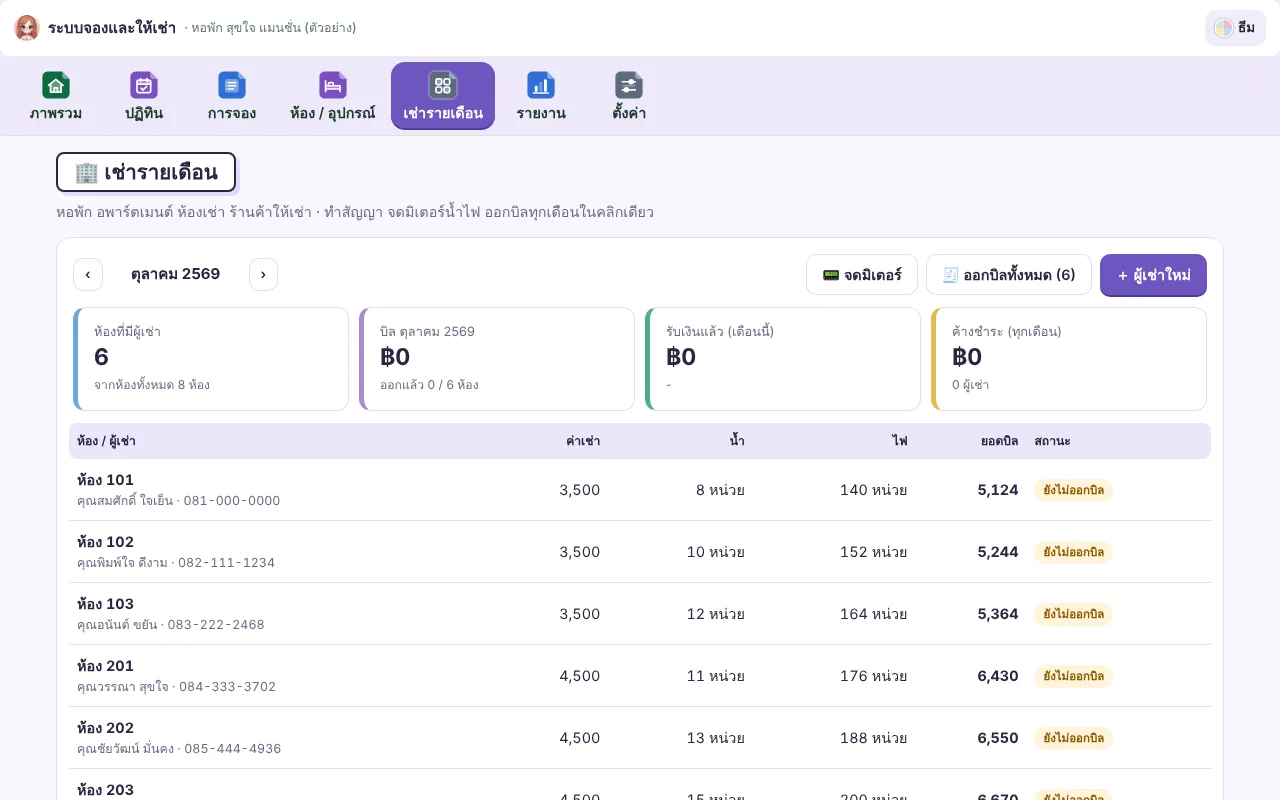
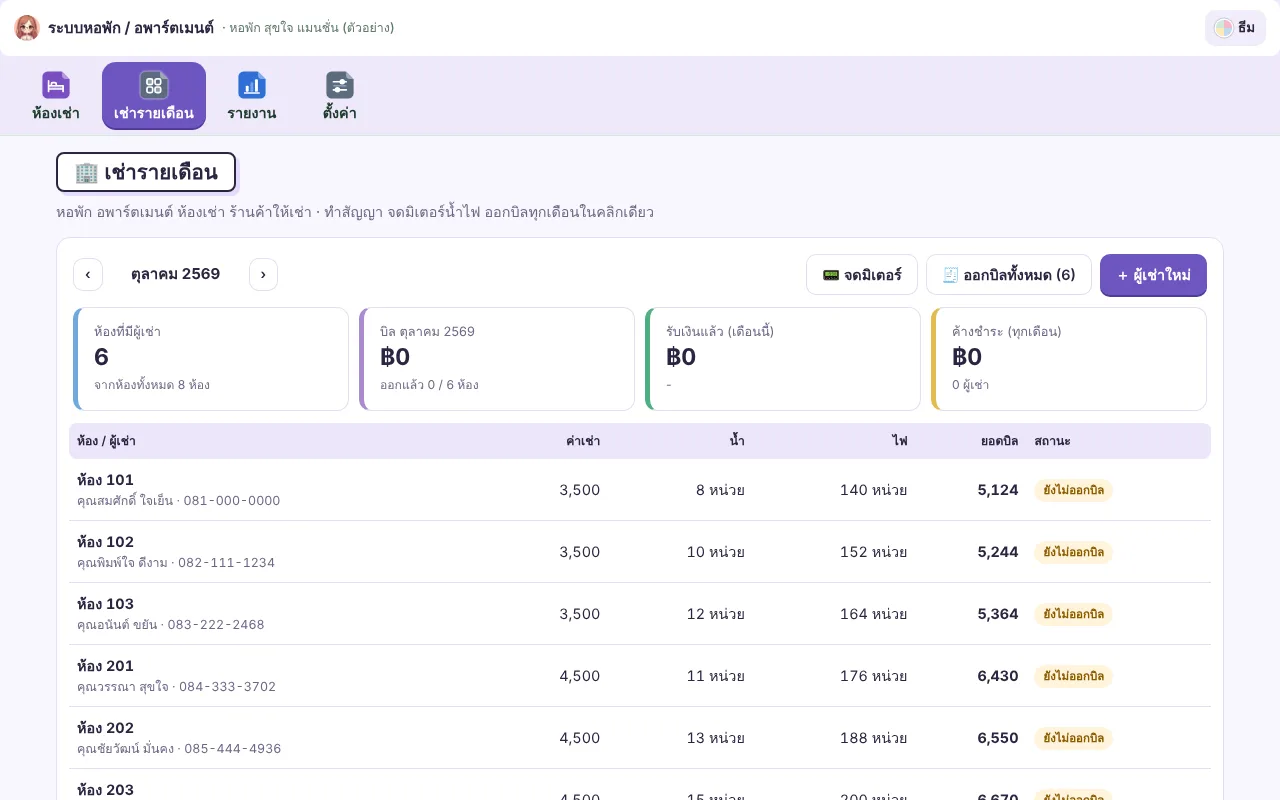
ระบบจอง: คำตามประเภทธุรกิจทุกหน้า (bookwords.js) + ซ่อนช่องที่ไม่เกี่ยว + ข้อความใบยืนยันตามธุรกิจ
Claude-Session: https://claude.ai/code/session_01EbbxVPtwtVY3ByRXsAceaL

Changed region(s): [[0.0312, 0.0312, 0.4375, 0.1875], [0.4688, 0.0938, 0.5, 0.1562]]

diff --git a/assets/bookwords.js b/assets/bookwords.js
@@ -1,0 +1,240 @@
+/* คำในระบบจองตามประเภทธุรกิจ (cfg.biz) — เปลี่ยนคำกลาง ๆ ของระบบจองให้เป็นคำที่คนในธุรกิจนั้นใช้จริง
+   และซ่อนช่องที่ไม่เกี่ยวกับธุรกิจนั้น (เช่น เวลาเช็คอินในร้านเสริมสวย)
+   ใช้ใน booking/index.html เท่านั้น · ข้อมูลไม่เปลี่ยน เปลี่ยนแค่คำที่แสดง */
+(function () {
+  "use strict";
+  var biz = "";
+  try { biz = (JSON.parse(localStorage.getItem("edm_book_cfg") || "{}").biz) || ""; } catch (e) {}
+  if (!biz) return;
+
+  // ---------- คำร่วมแยกตามกลุ่ม ----------
+  var STAY = [   // โรงแรม · รีสอร์ท · หอพัก (มีเช็คอิน-เช็คเอาท์)
+    ["ต้องเช็คอิน / ส่งมอบวันนี้", "ต้องเช็คอินวันนี้"],
+    ["ต้องเช็คเอาท์ / รับคืนวันนี้", "ต้องเช็คเอาท์วันนี้"],
+    ["เข้า / ส่งมอบวันนี้", "เช็คอินวันนี้"],
+    ["ออก / รับคืนวันนี้", "เช็คเอาท์วันนี้"],
+    ["เข้าพัก / ใช้งานอยู่", "เข้าพักอยู่"],
+    ["ใช้งานอยู่ ", "เข้าพักอยู่ "],
+    ["จำนวนผู้เข้าพัก / ผู้ใช้", "จำนวนผู้เข้าพัก"],
+    ["ค่าเช่าแบ่งตามจำนวนคืน/วันที่อยู่ในเดือน (รวมเฉพาะที่ยืนยันแล้ว เข้าพัก และออกแล้ว)", "ค่าห้องคิดตามจำนวนคืนที่อยู่ในเดือนนี้ (นับเฉพาะที่ยืนยันแล้ว เข้าพักอยู่ และเช็คเอาท์แล้ว)"],
+    ["ค่าปรับเกินเวลา (% ของค่าเช่าช่วงที่เกิน)", "ค่าปรับเช็คเอาท์ช้า (% ของค่าห้องช่วงที่เกิน)"],
+    ["ชื่อร้าน / ที่พัก", "ชื่อที่พัก"]
+  ];
+  var SERVICE = [ // ร้านเสริมสวย · จองช่าง (นัดเป็นเวลา ไม่มีเข้าพัก)
+    ["ค่าเช่าแบ่งตามจำนวนคืน/วันที่อยู่ในเดือน (รวมเฉพาะที่ยืนยันแล้ว เข้าพัก และออกแล้ว)", "ยอดค่าบริการของงานในเดือนนี้ (นับเฉพาะที่ยืนยันแล้ว กำลังทำ และเสร็จแล้ว)"],
+    ["ค่าปรับเกินเวลา (% ของค่าเช่าช่วงที่เกิน)", "ค่าบริการเพิ่มเมื่อเกินเวลา (% ของค่าบริการช่วงที่เกิน)"],
+    ["กดช่องว่างเพื่อจอง · กดแถบสีเพื่อเปิดใบจอง · ช่องตัวเลข = จำนวนที่ยังว่างในวันนั้น", "กดช่องว่างเพื่อลงคิว · กดช่องที่มีคิวเพื่อดูรายการของวันนั้น"],
+    ["ตั้งราคา จำนวน และค่าประกันของแต่ละรายการ · ห้องที่เหมือนกันหลายห้องจะแยกทีละห้อง หรือรวมเป็นประเภทห้องพร้อมจำนวนก็ได้", "ใส่รายชื่อช่างหรือทีม พร้อมราคาค่าบริการต่อชั่วโมง · ระบบใช้กันคิวชนของแต่ละคน"],
+    ["ค้นหาด้วยเลขที่ ชื่อลูกค้า เบอร์โทร หรือชื่อห้อง/อุปกรณ์", "ค้นหาด้วยเลขที่ ชื่อลูกค้า เบอร์โทร หรือชื่อช่าง"],
+    ["ลูกค้าเห็นเฉพาะชื่อร้าน รายการ ราคา และช่วงที่ไม่ว่าง ไม่เห็นชื่อหรือเบอร์ของผู้จองคนอื่น · คำขอจองยังไม่ตัดห้องจนกว่าคุณกดรับจอง แต่จะกันช่วงนั้นไม่ให้ลูกค้าคนอื่นขอซ้ำ", "ลูกค้าเห็นเฉพาะชื่อร้าน รายการ ราคา และเวลาที่ไม่ว่าง ไม่เห็นชื่อหรือเบอร์ของลูกค้าคนอื่น · คำขอยังไม่ลงคิวจริงจนกว่าคุณกดรับ แต่จะกันเวลานั้นไม่ให้คนอื่นขอซ้ำ"],
+    ["รายการให้เช่า", "รายการ"],
+    ["ชื่อร้าน / ที่พัก", "ชื่อร้าน"],
+    ["ค่าเช่า", "ค่าบริการ"],
+    ["ค่าประกันถืออยู่", "มัดจำที่ถืออยู่"],
+    ["ค่าประกันที่ถืออยู่", "มัดจำที่ถืออยู่"],
+    ["เวลาเตรียมห้องระหว่างรอบ (นาที) · ใช้กับแบบรายชั่วโมง", "เวลาพักระหว่างคิว (นาที)"],
+    ["ดาวน์โหลดไฟล์สำรองระบบจอง", "ดาวน์โหลดไฟล์สำรองข้อมูล"],
+    ["ล้างข้อมูลระบบจอง", "ล้างข้อมูลทั้งหมด"],
+    ["ข้อมูลระบบจอง", "ข้อมูลในระบบ"],
+    ["ราคาในระบบจองรวม VAT แล้ว", "ราคาในระบบรวม VAT แล้ว"],
+    ["ใช้บนใบยืนยัน ใบเสร็จ และหน้าจองออนไลน์", "ใช้บนใบยืนยัน ใบเสร็จ และหน้านัดออนไลน์"]
+  ];
+
+  // ---------- คำเฉพาะแต่ละธุรกิจ ----------
+  var V = {
+    hotel: STAY.concat([
+      ["ระบบจองและให้เช่า", "ระบบจองห้องพัก"],
+      ["ห้อง / อุปกรณ์ให้เช่า", "ห้องพัก"],
+      ["ปฏิทินห้อง / อุปกรณ์", "ปฏิทินห้องพัก"],
+      ["แยกตามห้อง / อุปกรณ์", "แยกตามห้อง"],
+      ["เพิ่มห้อง / อุปกรณ์", "เพิ่มห้อง"],
+      ["เลือกห้อง / อุปกรณ์", "เลือกห้อง"],
+      ["ยังไม่มีห้อง / อุปกรณ์", "ยังไม่มีห้องพัก"],
+      ["ห้อง / อุปกรณ์", "ห้องพัก"],
+      ["ห้อง/อุปกรณ์", "ห้อง"],
+      ["ชื่อห้อง / สถานที่", "ชื่อห้อง"],
+      ["ค่าเช่า", "ค่าห้อง"],
+      ["รายการให้เช่า", "ห้อง"]
+    ]),
+    resort: STAY.concat([
+      ["ระบบจองและให้เช่า", "ระบบจองรีสอร์ท / บ้านพัก"],
+      ["ห้อง / อุปกรณ์ให้เช่า", "บ้านพัก / ของให้เช่า"],
+      ["ปฏิทินห้อง / อุปกรณ์", "ปฏิทินบ้านพัก"],
+      ["แยกตามห้อง / อุปกรณ์", "แยกตามบ้านพัก / ของให้เช่า"],
+      ["เพิ่มห้อง / อุปกรณ์", "เพิ่มบ้านพัก / ของให้เช่า"],
+      ["เลือกห้อง / อุปกรณ์", "เลือกบ้านพัก / ของให้เช่า"],
+      ["ยังไม่มีห้อง / อุปกรณ์", "ยังไม่มีบ้านพัก"],
+      ["ห้อง / อุปกรณ์", "บ้านพัก / ของให้เช่า"],
+      ["ห้อง/อุปกรณ์", "บ้านพัก"],
+      ["ชื่อห้อง / สถานที่", "ชื่อบ้านพัก / รายการ"],
+      ["ค่าเช่า", "ค่าที่พัก"]
+    ]),
+    dorm: STAY.concat([
+      ["ระบบจองและให้เช่า", "ระบบหอพัก / อพาร์ตเมนต์"],
+      ["ห้อง / อุปกรณ์ให้เช่า", "ห้องเช่า"],
+      ["ปฏิทินห้อง / อุปกรณ์", "ปฏิทินห้องเช่า"],
+      ["แยกตามห้อง / อุปกรณ์", "แยกตามห้อง"],
+      ["เพิ่มห้อง / อุปกรณ์", "เพิ่มห้อง"],
+      ["เลือกห้อง / อุปกรณ์", "เลือกห้อง"],
+      ["ยังไม่มีห้อง / อุปกรณ์", "ยังไม่มีห้องเช่า"],
+      ["ห้อง / อุปกรณ์", "ห้องเช่า"],
+      ["ห้อง/อุปกรณ์", "ห้อง"],
+      ["ชื่อห้อง / สถานที่", "ชื่อห้อง"],
+      ["ชื่อที่พัก", "ชื่อหอพัก"]
+    ]),
+    meet: [
+      ["ระบบจองและให้เช่า", "ระบบจองห้องประชุม / เช่าอุปกรณ์"],
+      ["ต้องเช็คอิน / ส่งมอบวันนี้", "เริ่มใช้งาน / รับของวันนี้"],
+      ["ต้องเช็คเอาท์ / รับคืนวันนี้", "ใช้เสร็จ / คืนของวันนี้"],
+      ["เข้า / ส่งมอบวันนี้", "เริ่มใช้งาน / รับของวันนี้"],
+      ["ออก / รับคืนวันนี้", "ใช้เสร็จ / คืนของวันนี้"],
+      ["เข้าพัก / ใช้งานอยู่", "กำลังใช้งาน"],
+      ["จำนวนผู้เข้าพัก / ผู้ใช้", "จำนวนผู้เข้าร่วม"],
+      ["ค่าเช่าแบ่งตามจำนวนคืน/วันที่อยู่ในเดือน (รวมเฉพาะที่ยืนยันแล้ว เข้าพัก และออกแล้ว)", "ค่าเช่าของการจองในเดือนนี้ (นับเฉพาะที่ยืนยันแล้ว กำลังใช้งาน และใช้เสร็จแล้ว)"],
+      ["ตั้งราคา จำนวน และค่าประกันของแต่ละรายการ · ห้องที่เหมือนกันหลายห้องจะแยกทีละห้อง หรือรวมเป็นประเภทห้องพร้อมจำนวนก็ได้", "ตั้งราคา จำนวน และค่าประกันของห้องและอุปกรณ์ · อุปกรณ์ที่มีหลายชิ้นใส่เป็นจำนวนได้ ระบบนับของคงเหลือให้"],
+      ["ชื่อร้าน / ที่พัก", "ชื่อร้าน / สถานที่"],
+      ["เวลาเตรียมห้องระหว่างรอบ (นาที) · ใช้กับแบบรายชั่วโมง", "เวลาเตรียมห้องระหว่างรอบ (นาที)"]
+    ],
+    salon: SERVICE.concat([
+      ["ระบบจองและให้เช่า", "ระบบนัดคิว ร้านเสริมสวย / สปา"],
+      ["ต้องเช็คอิน / ส่งมอบวันนี้", "คิวที่ยังไม่เริ่มวันนี้"],
+      ["ต้องเช็คเอาท์ / รับคืนวันนี้", "กำลังให้บริการ"],
+      ["เข้า / ส่งมอบวันนี้", "คิววันนี้"],
+      ["ออก / รับคืนวันนี้", "กำลังให้บริการ"],
+      ["เข้าพัก / ใช้งานอยู่", "กำลังให้บริการ"],
+      ["ใช้งานอยู่ ", "กำลังให้บริการ "],
+      ["จองไว้ (รอมัดจำ)", "นัดไว้ (รอมัดจำ)"],
+      ["ห้อง / อุปกรณ์ให้เช่า", "ช่าง / เตียง"],
+      ["ปฏิทินห้อง / อุปกรณ์", "ตารางคิว"],
+      ["แยกตามห้อง / อุปกรณ์", "แยกตามช่าง / เตียง"],
+      ["เพิ่มห้อง / อุปกรณ์", "เพิ่มช่าง / เตียง"],
+      ["เลือกห้อง / อุปกรณ์", "เลือกช่าง / เตียง"],
+      ["ยังไม่มีห้อง / อุปกรณ์", "ยังไม่มีช่างหรือเตียง"],
+      ["ห้อง / อุปกรณ์", "ช่าง / เตียง"],
+      ["ชื่อห้อง / สถานที่", "ชื่อช่าง / เตียง"],
+      ["จำนวน (ห้องเหมือนกัน)", "รับลูกค้าพร้อมกันได้ (คน)"],
+      ["ภาพรวมการจอง", "ภาพรวมคิว"],
+      ["รายงานการจอง", "รายงานบริการ"],
+      ["ตั้งค่าการจอง", "ตั้งค่าร้าน"],
+      ["ยืนยันการจอง", "ยืนยันนัด"],
+      ["ช่องทางการจอง", "ลูกค้านัดผ่าน"],
+      ["รับจองออนไลน์", "รับนัดคิวออนไลน์"],
+      ["จองล่วงหน้า", "นัดล่วงหน้า"],
+      ["เปิดให้จองรายชั่วโมงตั้งแต่", "เปิดให้นัดตั้งแต่"],
+      ["รายการที่เปิดให้ลูกค้าจอง", "ช่าง / เตียงที่เปิดให้ลูกค้านัด"],
+      ["ลูกค้าเลือกและส่งคำขอจองเองผ่านลิงก์ของร้าน", "ลูกค้าเลือกเวลาและส่งคำขอนัดเองผ่านลิงก์ของร้าน"],
+      ["ใบจองใหม่ (เริ่มในเดือน)", "นัดใหม่ (ในเดือนนี้)"],
+      ["ไม่พบใบจอง", "ไม่พบใบนัด"],
+      ["ลบใบจอง", "ลบใบนัด"],
+      ["รายการจอง", "รายการนัด"],
+      ["ใบจอง", "ใบนัด"],
+      ["จองใหม่", "นัดคิวใหม่"],
+      ["การจอง", "นัดหมาย"],
+      ["ขายได้", "ชั่วโมงบริการ"],
+      [" งาน · เฉลี่ย ", " คิว · เฉลี่ย "],
+      ["ชม./งาน", "ชม./คิว"],
+      ["เพิ่มนัดหมาย / คิวบริการ", "เพิ่มช่าง / เตียง"],
+      ["ที่อยู่ / จุดนัดรับ (สั้นๆ)", "ที่อยู่ร้าน (สั้นๆ)"],
+      [" รอบ", " คิว"]
+    ]),
+    tech: SERVICE.concat([
+      ["ระบบจองและให้เช่า", "ระบบจองช่าง / บริการถึงบ้าน"],
+      ["ต้องเช็คอิน / ส่งมอบวันนี้", "งานที่ต้องไปวันนี้"],
+      ["ต้องเช็คเอาท์ / รับคืนวันนี้", "กำลังทำ / รอปิดงาน"],
+      ["เข้า / ส่งมอบวันนี้", "งานวันนี้"],
+      ["ออก / รับคืนวันนี้", "กำลังทำ / รอปิดงาน"],
+      ["เข้าพัก / ใช้งานอยู่", "กำลังทำงาน"],
+      ["ใช้งานอยู่ ", "กำลังทำงาน "],
+      ["จองไว้ (รอมัดจำ)", "รับงานไว้ (รอมัดจำ)"],
+      ["ห้อง / อุปกรณ์ให้เช่า", "ช่าง / ทีม"],
+      ["ปฏิทินห้อง / อุปกรณ์", "ตารางงานช่าง"],
+      ["แยกตามห้อง / อุปกรณ์", "แยกตามช่าง / ทีม"],
+      ["เพิ่มห้อง / อุปกรณ์", "เพิ่มช่าง / ทีม"],
+      ["เลือกห้อง / อุปกรณ์", "เลือกช่าง / ทีม"],
+      ["ยังไม่มีห้อง / อุปกรณ์", "ยังไม่มีช่างหรือทีม"],
+      ["ห้อง / อุปกรณ์", "ช่าง / ทีม"],
+      ["ชื่อห้อง / สถานที่", "ชื่อช่าง / ทีม"],
+      ["จำนวน (ห้องเหมือนกัน)", "รับงานพร้อมกันได้ (งาน)"],
+      ["ภาพรวมการจอง", "ภาพรวมงาน"],
+      ["รายงานการจอง", "รายงานงานบริการ"],
+      ["ตั้งค่าการจอง", "ตั้งค่าร้าน"],
+      ["ยืนยันการจอง", "ยืนยันรับงาน"],
+      ["ช่องทางการจอง", "ลูกค้าติดต่อผ่าน"],
+      ["รับจองออนไลน์", "รับงานออนไลน์"],
+      ["จองล่วงหน้า", "นัดล่วงหน้า"],
+      ["เปิดให้จองรายชั่วโมงตั้งแต่", "เปิดรับนัดตั้งแต่"],
+      ["รายการที่เปิดให้ลูกค้าจอง", "ช่าง / ทีมที่เปิดให้ลูกค้านัด"],
+      ["ลูกค้าเลือกและส่งคำขอจองเองผ่านลิงก์ของร้าน", "ลูกค้าเลือกเวลาและส่งคำขอนัดช่างเองผ่านลิงก์ของร้าน"],
+      ["ที่อยู่ / จุดนัดรับ (สั้นๆ)", "พื้นที่ให้บริการ (สั้นๆ)"],
+      ["ใบจองใหม่ (เริ่มในเดือน)", "งานใหม่ (ในเดือนนี้)"],
+      ["ไม่พบใบจอง", "ไม่พบใบงาน"],
+      ["ลบใบจอง", "ลบใบงาน"],
+      ["＋ ที่อยู่ / เลขภาษี (ออกใบกำกับ)", "＋ ที่อยู่หน้างาน / เลขภาษี"],
+      ["รายการจอง", "งานที่นัด"],
+      ["ใบนัด", "ใบงาน"],
+      ["ใบจอง", "ใบงาน"],
+      ["จองใหม่", "รับงานใหม่"],
+      ["การจอง", "งาน"],
+      ["ขายได้", "ชั่วโมงงาน"],
+      ["เพิ่มงานช่าง / นัดหน้างาน", "เพิ่มช่าง / ทีม"],
+      ["หน้าร้าน", "ลูกค้าเดินมาที่ร้าน"],
+      [" รอบ", " งาน"]
+    ])
+  };
+  // ตัวอย่างในช่องกรอก (placeholder) ตามธุรกิจ
+  var P = {
+    hotel: { "เช่น ขอห้องชั้นล่าง, มารับของเวลา 10 โมง": "เช่น ขอห้องชั้นล่าง, เข้าพักดึก 4 ทุ่ม" },
+    resort: { "เช่น ขอห้องชั้นล่าง, มารับของเวลา 10 โมง": "เช่น ขอบ้านหลังริมน้ำ, จัดบาร์บีคิวเย็นวันเสาร์" },
+    dorm: { "เช่น ขอห้องชั้นล่าง, มารับของเวลา 10 โมง": "เช่น ย้ายเข้าวันเสาร์" },
+    meet: { "เช่น 2 ผู้ใหญ่ 1 เด็ก": "เช่น 20 คน", "เช่น ขอห้องชั้นล่าง, มารับของเวลา 10 โมง": "เช่น จัดโต๊ะแบบห้องเรียน, ขอไมค์ 2 ตัว" },
+    salon: { "เช่น ขอห้องชั้นล่าง, มารับของเวลา 10 โมง": "เช่น ทำสีผม ขอช่างนุ่น", "เช่น ห้องประชุม A": "เช่น ช่างนุ่น · ทำผม", "เช่น ห้องประชุม, สนาม": "เช่น ทำผม, ทำเล็บ, นวด", "เช่น จุ 20 คน มีโปรเจกเตอร์": "เช่น ตัด สระ ไดร์ ทำสี", "เช่น บ้านพักริมน้ำ 3 หลัง ใกล้ตัวเมือง 10 นาที": "เช่น ร้านทำผม เปิด 10:00–20:00 หยุดวันพุธ", "ห้อง": "คน" },
+    tech: { "เช่น ขอห้องชั้นล่าง, มารับของเวลา 10 โมง": "เช่น แอร์ไม่เย็น 2 เครื่อง ชั้น 3 มีที่จอดรถ", "เช่น ห้องประชุม A": "เช่น ช่างเอก · แอร์", "เช่น ห้องประชุม, สนาม": "เช่น แอร์, ไฟฟ้า, ประปา", "เช่น จุ 20 คน มีโปรเจกเตอร์": "เช่น ล้างแอร์ ซ่อมแอร์ รับงานเขตบางนา", "เช่น บ้านพักริมน้ำ 3 หลัง ใกล้ตัวเมือง 10 นาที": "เช่น รับงานช่างแอร์ ไฟฟ้า ประปา ในเขตกรุงเทพฯ ตะวันออก", "ห้อง": "ทีม" }
+  };
+  // ช่องที่ไม่เกี่ยวกับธุรกิจนั้น: [ข้อความของป้าย/ตัวเลือก, กล่องที่จะซ่อน]
+  var NOTE = ["^ซ่อนประเภท", ".note"];
+  var NOSTAY = [NOTE, ["เวลาเช็คอิน", ".f"], ["เวลาเช็คเอาท์", ".f"], ['คืนที่ใช้ "ราคาคืนวันหยุด" ของห้องพัก', ".f"], ["Agoda / Booking", "option"], ["🏢 เช่ารายเดือน", "button"], ["เช่ารายเดือน", "button"]];
+  var H = {
+    meet: NOSTAY,
+    salon: NOSTAY.concat([["จำนวนผู้เข้าพัก / ผู้ใช้", ".f"], ["รับค่าประกัน", "option"], ["คืนค่าประกัน", "option"], ["หักค่าประกันเป็นค่าเสียหาย", "option"], ["ค่าประกัน", ".f"], ["ค่าประกัน / ช่าง/เตียง", ".f"], ["ประเภทที่ใช้", ".card"], ["^ซ่อนประเภท", ".note"]]),
+    tech: NOSTAY.concat([["จำนวนผู้เข้าพัก / ผู้ใช้", ".f"], ["รับค่าประกัน", "option"], ["คืนค่าประกัน", "option"], ["หักค่าประกันเป็นค่าเสียหาย", "option"], ["ค่าประกัน", ".f"], ["ค่าประกัน / ช่าง/ทีม", ".f"], ["ประเภทที่ใช้", ".card"], ["^ซ่อนประเภท", ".note"]]),
+    dorm: [["Agoda / Booking", "option"], NOTE],
+    hotel: [NOTE], resort: [NOTE]
+  };
+  // แทนเฉพาะเมื่อข้อความทั้งก้อนตรงกัน (คำสั้นที่ซ้ำในคำอื่น เช่น "ออกแล้ว" ใน "ย้ายออกแล้ว")
+  var X = {
+    meet: { "ออกแล้ว": "ใช้เสร็จแล้ว", "เปิดให้จอง": "เปิดให้จอง" },
+    salon: { "ออกแล้ว": "บริการเสร็จ", "เปิดให้จอง": "เปิดรับนัด", "เปิดจอง": "เปิดรับนัด", "ปิดจอง": "ปิดรับนัด", "ชั่วโมงงานทั้งเดือน": "ชั่วโมงบริการทั้งเดือน" },
+    tech: { "ออกแล้ว": "งานเสร็จ", "เปิดให้จอง": "เปิดรับงาน", "เปิดจอง": "เปิดรับงาน", "ปิดจอง": "ปิดรับงาน", "📋 การจอง": "📋 งานทั้งหมด", "การจอง": "งานทั้งหมด" },
+    hotel: { "ออกแล้ว": "เช็คเอาท์แล้ว" }, resort: { "ออกแล้ว": "เช็คเอาท์แล้ว" }
+  }[biz] || {};
+  var M = (V[biz] || []).slice().sort(function (a, b) { return b[0].length - a[0].length; }), PH = P[biz] || {}, HD = H[biz] || [];
+  var RE_CI = /\s*·\s*เวลาเช็คอิน.*?เช็คเอาท์\s*[\d:]+\s*น\./;
+  function swap(t) {
+    var o = t, tr = t.trim();
+    if (X[tr]) return X[tr] === tr ? null : t.replace(tr, X[tr]);
+    for (var i = 0; i < M.length; i++) if (t.indexOf(M[i][0]) >= 0) t = t.split(M[i][0]).join(M[i][1]);
+    if (!/^(hotel|resort|dorm)$/.test(biz)) t = t.replace(RE_CI, "");
+    return t === o ? null : t;
+  }
+  function fix(root) {
+    var w = document.createTreeWalker(root, NodeFilter.SHOW_TEXT), n, t;
+    while ((n = w.nextNode())) {
+      var p = n.parentNode && n.parentNode.nodeName;
+      if (p === "SCRIPT" || p === "STYLE" || p === "TEXTAREA" || !/[ก-๙]/.test(n.nodeValue)) continue;
+      if ((t = swap(n.nodeValue)) !== null) n.nodeValue = t;
+    }
+    var ins = root.querySelectorAll ? root.querySelectorAll("[placeholder]") : [];
+    for (var i = 0; i < ins.length; i++) { var ph = ins[i].getAttribute("placeholder"); if (PH[ph]) ins[i].setAttribute("placeholder", PH[ph]); }
+    if (HD.length) {
+      var els = root.querySelectorAll ? root.querySelectorAll("label,span,option,button,h2,h3,div.note") : [];
+      for (var j = 0; j < els.length; j++) {
+        var tx = els[j].textContent.trim();
+        for (var k = 0; k < HD.length; k++) if (HD[k][0][0] === "^" ? tx.indexOf(HD[k][0].slice(1)) === 0 : tx === HD[k][0]) { var box = HD[k][1] === els[j].tagName.toLowerCase() ? els[j] : els[j].closest(HD[k][1]); if (box && !box.hidden) { box.hidden = true; box.style.display = "none"; } }
+      }
+    }
+  }
+  var q = 0, run = function () { q = 0; try { fix(document.body); } catch (e) {} };
+  new MutationObserver(function () { if (q) return; q = 1; setTimeout(run, 20); }).observe(document.documentElement, { childList: true, subtree: true, characterData: true });
+  if (document.body) run(); else document.addEventListener("DOMContentLoaded", run);
+  window.addEventListener("load", run);
+})();

diff --git a/booking/index.html b/booking/index.html
@@ -285,6 +285,9 @@ load();
 (function(){let ed="";try{ed=(new URLSearchParams(window.top.location.search).get("ed")||"").toLowerCase()}catch(e){}
   const KD={hotel:{night:true,hour:false,item:false},resort:{night:true,hour:false,item:true},dorm:{night:true,hour:false,item:false},meet:{night:false,hour:true,item:true},salon:{night:false,hour:true,item:false},tech:{night:false,hour:true,item:false}}[ed];
   if(KD&&cfg.biz!==ed){cfg.biz=ed;cfg.kinds=Object.assign({},cfg.kinds,KD);LS.set(K.cfg,cfg)}})();
+/* ข้อความในใบยืนยันตามธุรกิจ: ใช้เมื่อยังเป็นข้อความตั้งต้นของโรงแรม (ร้านยังไม่ได้แก้เอง) */
+(function(){const T={salon:["เลื่อนหรือยกเลิกนัดก่อนเวลานัดอย่างน้อย 3 ชั่วโมง · ไม่มาตามนัดโดยไม่แจ้ง ขอสงวนสิทธิ์ไม่คืนเงินมัดจำ","กรุณามาก่อนเวลานัด 10 นาที"],tech:["เลื่อนหรือยกเลิกงานก่อนเวลานัดอย่างน้อย 24 ชั่วโมง · ยกเลิกหลังช่างออกเดินทางแล้ว อาจมีค่าเดินทาง","ช่างจะโทรแจ้งก่อนเข้าหน้างาน"],meet:["ยกเลิกก่อนวันใช้งาน 3 วัน คืนเงินมัดจำเต็มจำนวน · ยกเลิกน้อยกว่า 3 วัน ขอสงวนสิทธิ์ไม่คืนเงินมัดจำ","กรุณาแสดงใบยืนยันนี้ในวันใช้งาน"]}[cfg.biz];
+  if(!T)return;let ch=0;if(cfg.cancel===CFG0.cancel){cfg.cancel=T[0];ch=1}if(cfg.foot===CFG0.foot){cfg.foot=T[1];ch=1}if(ch)LS.set(K.cfg,cfg)})();
 /* ร้านเสริมสวย/สปา/คลินิก: เรียก "นัดหมาย" · หน่วย = ช่าง/เตียง */
 if(cfg.biz==="tech")Object.assign(KIND.hour,{n:"งานช่าง / นัดหน้างาน",ic:"🔧",s:"นัดเวลา",e:"ถึง",in:"🚐 ออกหน้างาน",out:"✅ งานเสร็จ",inS:"กำลังทำงาน",outS:"งานเสร็จ",ex:"ช่างแอร์ ช่างไฟ ช่างประปา ทีมทำความสะอาด",unit:"ช่าง/ทีม"});
 if(cfg.biz==="salon")Object.assign(KIND.hour,{n:"นัดหมาย / คิวบริการ",ic:"💇",s:"นัดเวลา",e:"ถึง",in:"▶ เริ่มบริการ",out:"🏁 บริการเสร็จ",inS:"กำลังให้บริการ",outS:"บริการเสร็จ",ex:"ช่างตัดผม เตียงนวด/สปา ห้องตรวจ ช่างทำเล็บ",unit:"ช่าง/เตียง"});
@@ -636,7 +639,7 @@ function vRes(){const V=$("#view");const ks=KO.filter(kOn);
 function resDlg(id,kind){const old=id?rOf(id):null;const r=old?Object.assign({},old):{id:uid("r"),kind:kind||"night",name:"",cat:"",qty:1,rate:"",rateWe:"",rate7:"",dep:"",unit:"",note:"",active:true};
   const draw=()=>{const Kd=KIND[r.kind];
   openDlg(old?"แก้ไข "+old.name:"เพิ่ม"+Kd.n,`<div class="db">
-    ${old?"":`<div class="kinds">${KO.map(k=>`<button type="button" data-k="${k}" class="${r.kind===k?"on":""}"><i>${KIND[k].ic}</i><b>${KIND[k].n}</b><span>${KIND[k].ex}</span></button>`).join("")}</div>`}
+    ${old||KO.filter(kOn).length<2?"":`<div class="kinds">${KO.filter(k=>kOn(k)||r.kind===k).map(k=>`<button type="button" data-k="${k}" class="${r.kind===k?"on":""}"><i>${KIND[k].ic}</i><b>${KIND[k].n}</b><span>${KIND[k].ex}</span></button>`).join("")}</div>`}
     <div class="row"><div class="f"><label>ชื่อ${r.kind==="item"?"อุปกรณ์":"ห้อง / สถานที่"} *</label><input class="in-" id="rN" value="${esc(r.name)}" placeholder="${r.kind==="night"?"เช่น ห้อง 101 Deluxe":r.kind==="hour"?"เช่น ห้องประชุม A":"เช่น กล้อง Canon EOS R6"}"></div>
       <div class="f"><label>หมวด / ประเภท</label><input class="in-" id="rC" value="${esc(r.cat||"")}" placeholder="${r.kind==="night"?"เช่น Deluxe, Family":r.kind==="hour"?"เช่น ห้องประชุม, สนาม":"เช่น กล้อง, แคมป์ปิ้ง"}"></div></div>
     <div class="row3"><div class="f"><label>${r.kind==="item"?"จำนวนที่มี":"จำนวน (ห้องเหมือนกัน)"}</label><input class="in- r" id="rQ" inputmode="numeric" value="${esc(r.qty||1)}"></div>
@@ -1040,12 +1043,6 @@ window.addEventListener("message",e=>{if(e.origin===location.origin&&e.data&&e.d
 </script>
 <script src="../assets/track.js?v=5" defer></script><script src="../assets/member.js?v=101" defer></script>
 <script src="../assets/docshare.js?v=1" defer></script>
-<script>/* รุ่นงานนัดหมาย (salon/tech): เปลี่ยนคำเรียกแบบโรงแรมในหน้าจอให้เป็นคำของงานบริการ */
-(function(){var b="";try{b=(JSON.parse(localStorage.getItem("edm_book_cfg")||"{}").biz)||""}catch(e){}if(b!=="salon"&&b!=="tech")return;
-var U=b==="tech"?"ช่าง / ทีม":"ช่าง / เตียง",N=b==="tech"?"ระบบจองช่าง":"ระบบนัดหมาย";
-var M=[["ค่าเช่าแบ่งตามจำนวนคืน/วันที่อยู่ในเดือน (รวมเฉพาะที่ยืนยันแล้ว เข้าพัก และออกแล้ว)","ยอดค่าบริการของงานในเดือน (รวมเฉพาะที่ยืนยันแล้ว กำลังทำ และเสร็จแล้ว)"],["รายงานการจอง","รายงานงานบริการ"],["ใบจองใหม่ (เริ่มในเดือน)","งานใหม่ (เริ่มในเดือน)"],["ค่าประกันถืออยู่","มัดจำที่ถืออยู่"],["ค่าเช่า","ค่าบริการ"],["ต้องเช็คอิน / ส่งมอบวันนี้","คิวที่ยังไม่เริ่มวันนี้"],["ต้องเช็คเอาท์ / รับคืนวันนี้","กำลังทำ / รอปิดงาน"],["เข้า / ส่งมอบวันนี้","คิววันนี้"],["ออก / รับคืนวันนี้","กำลังทำ / รอปิดงาน"],["ภาพรวมการจอง","ภาพรวมงาน"],["ปฏิทินห้อง / อุปกรณ์","ตารางคิว"],["แยกตามห้อง / อุปกรณ์","แยกตาม"+U],["ห้อง / อุปกรณ์ให้เช่า",U],["ห้อง / อุปกรณ์",U],["ระบบจองและให้เช่า",N],["จองใหม่","นัดใหม่"],["รายการจอง","รายการนัด"],["ค่าประกันที่ถืออยู่","มัดจำที่ถืออยู่"],["ใบจอง","ใบนัด"]];
-var R=/\s*·\s*เวลาเช็คอิน.*?เช็คเอาท์\s*[\d:]+\s*น\./;
-function fix(root){var w=document.createTreeWalker(root,NodeFilter.SHOW_TEXT),n,t,o;while(n=w.nextNode()){t=o=n.nodeValue;if(!t||!/[ก-๙]/.test(t))continue;for(var i=0;i<M.length;i++)if(t.indexOf(M[i][0])>=0)t=t.split(M[i][0]).join(M[i][1]);t=t.replace(R,"");if(t!==o)n.nodeValue=t}}
-var q=0,run=function(){q=0;try{fix(document.body)}catch(e){}};new MutationObserver(function(){if(q)return;q=1;setTimeout(run,30)}).observe(document.documentElement,{childList:true,subtree:true,characterData:true});run();document.addEventListener("DOMContentLoaded",run);window.addEventListener("load",run)})()</script>
+<script src="../assets/bookwords.js?v=1"></script>
 </body>
 </html>

diff --git a/app/index.html b/app/index.html
@@ -335,7 +335,7 @@ body>.tabbar{order:2}
 <script src="../assets/suggest.js?v=50"></script>
 <script>
 /* ตรวจเวอร์ชันใหม่: ถ้าเว็บอัปเดตแล้วแต่เบราว์เซอร์ยังจำหน้าเก่า ให้โหลดหน้าใหม่ให้เอง */
-(function(){var APP_V="20261021-1125";window.EDM_APP_V=APP_V;
+(function(){var APP_V="20261021-1215";window.EDM_APP_V=APP_V;
   function check(auto){fetch("/app/version.json?t="+Date.now(),{cache:"no-store"}).then(function(r){return r.json()}).then(function(j){if(!j||!j.v||j.v===APP_V)return;
     var k="edm_upd_"+j.v;var done=false;try{done=sessionStorage.getItem(k)}catch(e){}
     if(auto&&!done){try{sessionStorage.setItem(k,"1")}catch(e){}var sp=new URLSearchParams(location.search);sp.set("u",j.v);location.replace("/app/?"+sp+location.hash);return}
@@ -576,7 +576,7 @@ body>.tabbar{order:2}
 <div id="toast" hidden style="position:fixed;left:50%;bottom:80px;transform:translateX(-50%);background:var(--ink);color:var(--bg);padding:10px 18px;border-radius:999px;z-index:90;font-size:.9rem"></div>
 
 <script src="../assets/icons.js?v=10"></script>
-<script src="edition.js?v=12"></script>
+<script src="edition.js?v=13"></script>
 <script>
 "use strict";
 const $=s=>document.querySelector(s),$$=s=>[...document.querySelectorAll(s)];
@@ -594,7 +594,7 @@ const thD=s=>{if(!s)return"";const[y,m,d]=s.split("-");return +d+" "+MS[+m-1]+" 
 const ROUTES={bill:{src:"/bill/?v=67"},stock:{src:"/stock/?v=61",sv:"home"},stockrep:{src:"/stock/?v=61",sv:"report"},stkdash:{src:"/stock/?v=61",sv:"dash"},stkitems:{src:"/stock/?v=61",sv:"items"},stkin:{src:"/stock/?v=61",sv:"in"},stkout:{src:"/stock/?v=61",sv:"out"},stkadj:{src:"/stock/?v=61",sv:"adj"},stkhist:{src:"/stock/?v=61",sv:"hist"},stkre:{src:"/stock/?v=61",sv:"reorder"},
   ar:{src:"/account/?v=62",v:"ar"},tax:{src:"/account/?v=62",v:"tax"},buy:{src:"/account/?v=62",v:"buy"},cash:{src:"/account/?v=62",v:"cash"},pnl:{src:"/account/?v=62",v:"home"},
   cf:{src:"/cafe/?v=13",cv:"home"},cfpos:{src:"/cafe/?v=13",cv:"pos"},cfbar:{src:"/cafe/?v=13",cv:"bar"},cford:{src:"/cafe/?v=13",cv:"orders"},cfmenu:{src:"/cafe/?v=13",cv:"menu"},cfinv:{src:"/cafe/?v=13",cv:"inv"},cfshift:{src:"/cafe/?v=13",cv:"shift"},cfrpt:{src:"/cafe/?v=13",cv:"rpt"},cfset:{src:"/cafe/?v=13",cv:"set"},
-  bk:{src:"/booking/?v=21",bv:"home"},bkcal:{src:"/booking/?v=21",bv:"cal"},bklist:{src:"/booking/?v=21",bv:"list"},bkres:{src:"/booking/?v=21",bv:"res"},bkrpt:{src:"/booking/?v=21",bv:"rpt"},bklease:{src:"/booking/?v=21",bv:"lease"},bkset:{src:"/booking/?v=21",bv:"set"},
+  bk:{src:"/booking/?v=22",bv:"home"},bkcal:{src:"/booking/?v=22",bv:"cal"},bklist:{src:"/booking/?v=22",bv:"list"},bkres:{src:"/booking/?v=22",bv:"res"},bkrpt:{src:"/booking/?v=22",bv:"rpt"},bklease:{src:"/booking/?v=22",bv:"lease"},bkset:{src:"/booking/?v=22",bv:"set"},
   cost:{src:"/account/?v=62",v:"cost"},exp:{src:"/account/?v=62",v:"exp"},bank:{src:"/account/?v=62",v:"bank"},cashv:{src:"/account/?v=62",v:"cashv"},petty:{src:"/account/?v=62",v:"petty"},ap:{src:"/account/?v=62",v:"ap"}};
 const frames={};
 function frameFor(src){if(frames[src])return frames[src];const f=document.createElement("iframe");f.title=src;f.allow="web-share; clipboard-write";f.src=src;$("#stage").appendChild(f);frames[src]=f;return f}

diff --git a/app/edition.js b/app/edition.js
@@ -66,7 +66,8 @@
   if (E.solo) {
     var IC = { cf: "☕", cfpos: "🧾", cfbar: "🍹", cford: "📋", cfmenu: "📖", cfinv: "🧂", cfshift: "💰", cfrpt: "📊", cfset: "⚙", bk: "🏠", bkcal: "📅", bklist: "📋", bkres: "🛏", bklease: "🏢", bkrpt: "📊", bkset: "⚙" };
     var NM = { cf: "ภาพรวม", cfpos: "ขาย", cfbar: "จอบาร์", cford: "ออเดอร์", cfmenu: "เมนู", cfinv: "วัตถุดิบ", cfshift: "กะ", cfrpt: "รายงาน", cfset: "ตั้งค่า", bk: "ภาพรวม", bkcal: "ปฏิทิน", bklist: "การจอง", bkres: "ห้อง / อุปกรณ์", bklease: "เช่ารายเดือน", bkrpt: "รายงาน", bkset: "ตั้งค่า" };
-    if (ed === "salon" || ed === "tech") { NM.bkres = ed === "tech" ? "ช่าง / ทีม" : "ช่าง / เตียง"; NM.bklist = "นัดหมาย"; NM.bkcal = "ตารางคิว"; IC.bkres = ed === "tech" ? "🔧" : "💇"; }
+    var NB = { hotel: ["ห้องพัก"], resort: ["บ้านพัก"], dorm: ["ห้องเช่า"], salon: ["ช่าง / เตียง", "นัดหมาย", "ตารางคิว", "💇"], tech: ["ช่าง / ทีม", "งานทั้งหมด", "ตารางงาน", "🔧"] }[ed];
+    if (NB) { NM.bkres = NB[0]; if (NB[1]) { NM.bklist = NB[1]; NM.bkcal = NB[2]; IC.bkres = NB[3]; } }
     var sg = $('aside .mg[data-g="' + E.solo + '"]'), foot = $("aside .foot");
     if (sg && foot) $$(".mg-b a", sg).forEach(function (a) { setText(a, NM[a.dataset.r] || ""); var i = document.createElement("span"); i.className = "step"; i.textContent = IC[a.dataset.r] || "•"; a.insertBefore(i, a.firstChild); foot.parentNode.insertBefore(a, foot); });
     $$("aside > a[data-r], aside .mg").forEach(function (x) { if (x.tagName === "A" ? E.allow.indexOf(x.dataset.r) < 0 : true) x.remove(); });

diff --git a/CLAUDE.md b/CLAUDE.md
@@ -19,7 +19,7 @@
 - `bill/` รอบ 4 (19 ต.ค.): แบบบิล "แบบเรียบ" seller.tpl="clean" (renderClean, มุมสามเหลี่ยมเลขหน้า, พิมพ์ต้นฉบับ+สำเนา seller.copy → #paperCopy ตอน beforeprint) + "กรอกบนหน้าบิล" (peOn/peBind/peRefresh, localStorage edm_bill_pe, body.onpaper ซ่อนฟอร์มเหลือ #typeCard+#actBar) · ไม่ใช้กับ BN/CN/DN/เอกสารล็อก · แบบมาตรฐานเดิมไม่เปลี่ยน · ผู้ใช้ใหม่ = แบบเรียบ · แถบเลือก #peBar
 - `cafe/` POS คาเฟ่ (ข้อมูลแยก edm_cafe_*) · `booking/` จองห้องพัก + แท็บ "เช่ารายเดือน" (vLease, edm_book_lease {L:ผู้เช่า, B:{"<id>|YYYY-MM":บิล}}) จดมิเตอร์ meterDlg · lzIssue · ย้ายออก moveOutDlg หักค่าค้างจากประกัน · ห้องที่มีผู้เช่า = ไม่ว่างในปฏิทิน/usage/จองออนไลน์ · app route bklease
 - `payroll/` ดึงชั่วโมงจากระบบลงเวลา (assets/timecalc.js, #timeBar) · จ่ายกลางเดือน r.mid (openMid) หักใน calcMonth
-- `orders/` ออเดอร์ร้านออนไลน์ (edm_ord_items/cfg, tone coral) วางแชต parseChat · แพ็กแล้วตัดสต๊อก edm_stock_tx · ใบปะหน้า COD · `pos/` POS มินิมาร์ท (tone sky, edm_pos_sales/cfg, ใช้สินค้า edm_stock_items code=บาร์โค้ด, กล้อง BarcodeDetector, ใบเสร็จ 80mm) · รุ่น /app/?ed=salon นัดหมายร้านเสริมสวย (booking cfg.biz=salon เปลี่ยนคำ KIND.hour, sys book) · รุ่น /app/?ed=tech จองช่าง / บริการถึงบ้าน (21 ต.ค., cfg.biz=tech, KIND.hour 🔧 ออกหน้างาน/งานเสร็จ, sys book, PLANS tech 149) · booking ท้ายไฟล์มีสคริปต์เปลี่ยนคำโรงแรม→คำงานบริการเมื่อ biz=salon|tech · edition.js NM เปลี่ยนชื่อเมนู ช่าง/ทีม · ไอคอน wrench (icons.js v=10)
+- `orders/` ออเดอร์ร้านออนไลน์ (edm_ord_items/cfg, tone coral) วางแชต parseChat · แพ็กแล้วตัดสต๊อก edm_stock_tx · ใบปะหน้า COD · `pos/` POS มินิมาร์ท (tone sky, edm_pos_sales/cfg, ใช้สินค้า edm_stock_items code=บาร์โค้ด, กล้อง BarcodeDetector, ใบเสร็จ 80mm) · รุ่น /app/?ed=salon นัดหมายร้านเสริมสวย (booking cfg.biz=salon เปลี่ยนคำ KIND.hour, sys book) · รุ่น /app/?ed=tech จองช่าง / บริการถึงบ้าน (21 ต.ค., cfg.biz=tech, KIND.hour 🔧 ออกหน้างาน/งานเสร็จ, sys book, PLANS tech 149) · คำในระบบจองตามธุรกิจ = `assets/bookwords.js` (21 ต.ค., อ่าน edm_book_cfg.biz: hotel/resort/dorm/meet/salon/tech · V = แทนคำยาวก่อน, X = แทนเฉพาะข้อความตรงทั้งก้อน, P = placeholder, H = ซ่อนช่องไม่เกี่ยว เช่น เวลาเช็คอิน/Agoda/เช่ารายเดือน/ค่าประกัน) · ข้อความยกเลิก/ท้ายใบยืนยันตั้งต้นตามธุรกิจ (salon/tech/meet) เมื่อยังเป็นค่าโรงแรม · หน้า home KPI ที่ 3: ไม่มีห้องรายคืน = คิว/การจองวันนี้ · รายงาน: ชั่วโมงงานทั้งเดือน · resDlg แสดงเฉพาะประเภทที่เปิด · หน้าจองออนไลน์ลูกค้า book/ ยังไม่รู้ biz (ต้องเพิ่ม biz ใน bkCleanProfile_ หลังบ้านก่อน) · edition.js NM เปลี่ยนชื่อเมนู ช่าง/ทีม · ไอคอน wrench (icons.js v=10)
 - `goals/` ตั้งเป้าหมาย Smart Goal 49/490 (tone lav, edm_goal_items/cfg) การ์ดสีต่อเป้าหมาย g.c · โดนัท % = acts ที่ติ๊ก · รางวัล g.reward/g.got · หมวด cfg.cats · ไอคอน target ใน icons.js · spend/goals/pos/orders ใช้ EDM_ICON บนแท็บ+โลโก้ (สคริปต์ก่อน member.js)
 - `plan/` Project Planner วางแผนโปรเจกต์ 79/790 (19 ต.ค., tone lav, sys `plan`, edm_plan_tasks {id,pid,name,who,start,end,st:p|w|d,note} / edm_plan_cfg {name,projects[{id,name,start,end,c}],people,demo}) · Gantt ตาราง+แถบ (คอลัมน์ซ้าย sticky, --dw ต่อวัน, รายวัน/รายสัปดาห์) · เพิ่มงานเร็วแถวล่าง (qa) · ภาพรวม KPI/โดนัท/โปรเจกต์/ใกล้ครบกำหนด/งานค้างรายคน · ส่งออก CSV · ?demo=1 · ไอคอน gantt ใน icons.js (v=8)
 - `pet/` ร้านสัตว์เลี้ยง / คลินิกสัตว์ 149/1,490 (19 ต.ค., tone coral, sys `pet`) · cfg.biz shop|clinic (W() เปลี่ยนคำ, DEF ราคา/วัคซีน) · edm_pet_owners/pets/recs(t: visit|vac|dew|groom, next=วันครบกำหนด)/appts(st bk|in|done|no|cx)/sales/cfg · dues() เตือนครบกำหนด + คัดลอกข้อความไลน์ · นัด→เสร็จ+บิล · บันทึก→เปิดบิล · ใบเสร็จ 80mm/A4 (#prt) · สมุดวัคซีน · วันเกิดน้อง · รายงาน · ?demo=clinic|shop · ไอคอน paw (icons.js v=9)
